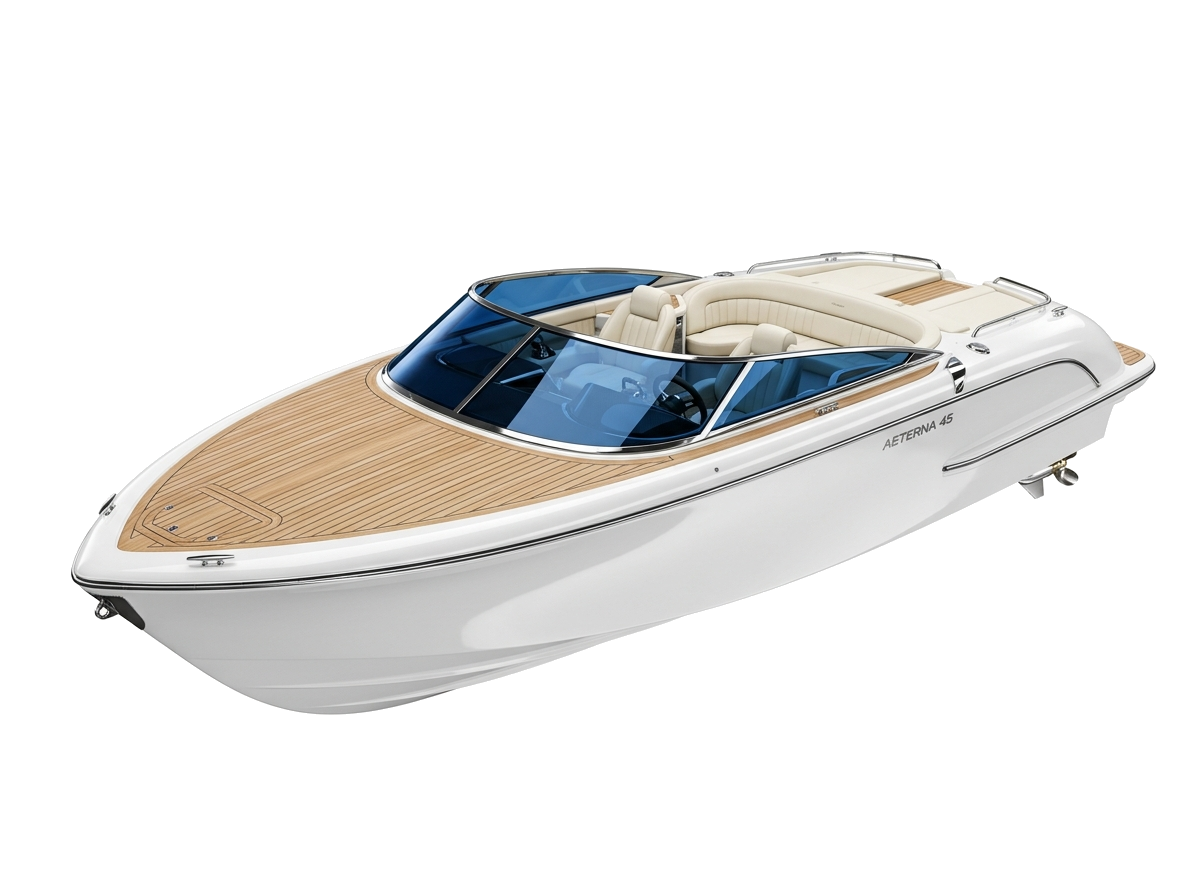
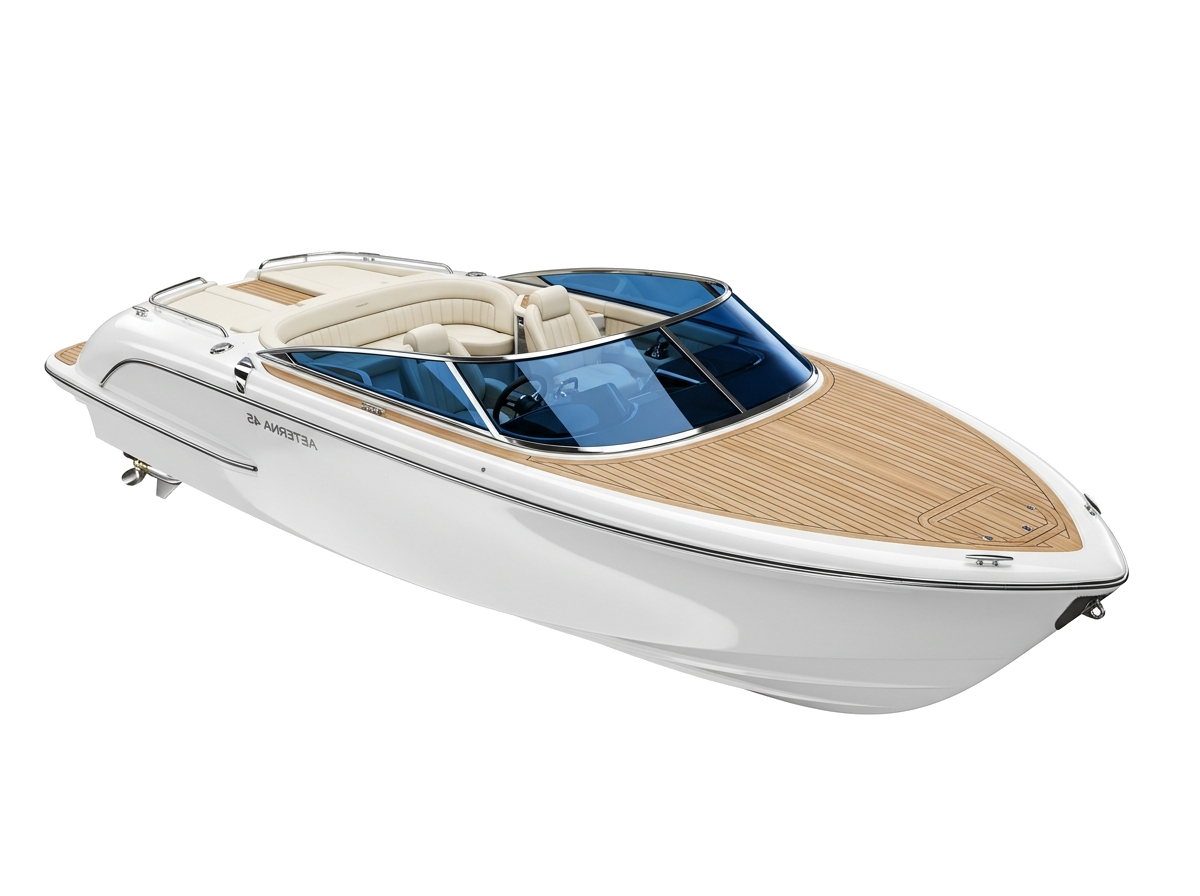
fix: align boat forward orientation, integrate NASA Blue Marble earth map, and eliminate unusual section gaps

diff --git a/main.js b/main.js
@@ -701,10 +701,10 @@ function initGSAPParallaxScroll() {
 
   // 2. SEA REALM: Speedboat sails across turquoise waters, Paraglider soars overhead
   gsap.fromTo('#sea-boat',
-    { x: '-15vw', y: 30 },
+    { x: '-5vw', y: 40 },
     {
       x: '65vw',
-      y: -20,
+      y: -25,
       ease: 'none',
       scrollTrigger: {
         trigger: '#biome-sea',
@@ -891,26 +891,33 @@ function initThreeJSGlobe() {
 
   const radius = 75;
 
-  // Base Earth Sphere
+  // Real NASA High-Resolution Earth Texture
+  const textureLoader = new THREE.TextureLoader();
+  const earthTexture = textureLoader.load('assets/earth-map.jpg', () => {
+    if (globeRenderer && globeScene && globeCamera) {
+      globeRenderer.render(globeScene, globeCamera);
+    }
+  });
+
+  // Base Earth Sphere with real satellite continents & oceans
   const sphereGeo = new THREE.SphereGeometry(radius, 64, 64);
   const sphereMat = new THREE.MeshPhongMaterial({
-    color: 0x0c0828,
-    emissive: 0x050314,
-    specular: 0x38bdf8,
-    shininess: 30,
-    transparent: true,
-    opacity: 0.94
+    map: earthTexture,
+    specular: new THREE.Color(0x0284c7),
+    shininess: 12,
+    emissive: new THREE.Color(0x050d1e),
+    emissiveIntensity: 0.15
   });
   globeSphere = new THREE.Mesh(sphereGeo, sphereMat);
   globeGroup.add(globeSphere);
 
-  // Digital Wireframe Grid
-  const wireGeo = new THREE.SphereGeometry(radius + 0.3, 36, 18);
+  // Digital Wireframe Grid (subtle navigational longitude / latitude)
+  const wireGeo = new THREE.SphereGeometry(radius + 0.35, 36, 18);
   const wireMat = new THREE.MeshBasicMaterial({
-    color: 0x7c3aed,
+    color: 0x38bdf8,
     wireframe: true,
     transparent: true,
-    opacity: 0.18
+    opacity: 0.15
   });
   const wireMesh = new THREE.Mesh(wireGeo, wireMat);
   globeGroup.add(wireMesh);
@@ -939,14 +946,14 @@ function initThreeJSGlobe() {
   const haloMesh = new THREE.Mesh(haloGeo, haloMat);
   globeGroup.add(haloMesh);
 
-  // Lights
-  globeScene.add(new THREE.AmbientLight(0xffffff, 0.85));
-  const dirLight1 = new THREE.DirectionalLight(0x00f2fe, 1.4);
-  dirLight1.position.set(150, 100, 150);
-  globeScene.add(dirLight1);
-  const dirLight2 = new THREE.DirectionalLight(0xff2a85, 1.0);
-  dirLight2.position.set(-150, -100, -150);
-  globeScene.add(dirLight2);
+  // Natural Sunlight & Atmospheric Rim Lights
+  globeScene.add(new THREE.AmbientLight(0xffffff, 1.4));
+  const sunLight = new THREE.DirectionalLight(0xfff8ee, 1.8);
+  sunLight.position.set(180, 120, 180);
+  globeScene.add(sunLight);
+  const rimLight = new THREE.DirectionalLight(0x0284c7, 0.7);
+  rimLight.position.set(-150, 60, -150);
+  globeScene.add(rimLight);
 
   function latLonToVec3(lat, lon, r) {
     const phi = (90 - lat) * (Math.PI / 180);
@@ -1835,4 +1842,27 @@ function initCounterStats() {
   }, { threshold: 0.5 });
 
   document.querySelectorAll('[data-count]').forEach((el) => observer.observe(el));
+}
+
+// Deep link / query scroll helper
+const urlParams = new URLSearchParams(window.location.search);
+const scrollTarget = urlParams.get('scroll');
+if (scrollTarget) {
+  const triggerScroll = () => {
+    const el = document.getElementById(scrollTarget);
+    if (el) {
+      if (window.lenis) {
+        window.lenis.scrollTo(el, { immediate: true });
+      } else {
+        el.scrollIntoView({ behavior: 'auto' });
+      }
+      if (typeof ScrollTrigger !== 'undefined') {
+        ScrollTrigger.refresh();
+      }
+    }
+  };
+  window.addEventListener('DOMContentLoaded', () => {
+    setTimeout(triggerScroll, 200);
+    setTimeout(triggerScroll, 600);
+  });
 }

diff --git a/index.html b/index.html
@@ -382,7 +382,7 @@
   <!-- ╔══════════════════════════════════════════════════════╗
        ║  STICKY FLIGHT TELEMETRY HUD PILL
        ╚══════════════════════════════════════════════════════╝ -->
-  <aside class="sticky top-[5.2rem] z-40 max-w-7xl mx-auto px-4 sm:px-6 pointer-events-none mb-0">
+  <aside class="fixed top-[5.2rem] left-0 right-0 z-40 max-w-7xl mx-auto px-4 sm:px-6 pointer-events-none">
     <div class="pointer-events-auto inline-flex items-center gap-3 px-4 py-2 rounded-full glass-panel border-cyan-400/30">
       <span id="wp-icon" class="text-base">✈</span>
       <span class="text-[10px] text-slate-400 hidden sm:inline font-bold uppercase tracking-wider font-mono">Current Waypoint:</span>
@@ -652,7 +652,7 @@
   <!-- ╔══════════════════════════════════════════════════════╗
        ║  THREE.JS INTERACTIVE 3D EARTH GLOBE & FLIGHT RADAR
        ╚══════════════════════════════════════════════════════╝ -->
-  <section id="radar-section" class="py-28 relative overflow-hidden">
+  <section id="radar-section" class="py-16 relative overflow-hidden">
     <div class="max-w-7xl mx-auto px-5 sm:px-8 relative z-10">
       
       <!-- Section Header -->
@@ -714,7 +714,7 @@
   <!-- ╔══════════════════════════════════════════════════════╗
        ║  CURATED EXPEDITIONS & PACKAGES CATALOG
        ╚══════════════════════════════════════════════════════╝ -->
-  <section id="packages-section" class="py-24 relative overflow-hidden">
+  <section id="packages-section" class="py-16 relative overflow-hidden">
     <div class="max-w-7xl mx-auto px-5 sm:px-8 relative z-10">
       
       <!-- Section Header -->
@@ -758,7 +758,7 @@
   <!-- ╔══════════════════════════════════════════════════════╗
        ║  TRAVELER JOURNAL & TESTIMONIALS (3D Tilt)
        ╚══════════════════════════════════════════════════════╝ -->
-  <section class="py-20 relative">
+  <section class="py-16 relative">
     <div class="max-w-7xl mx-auto px-5 sm:px-8">
       <div class="text-center max-w-2xl mx-auto mb-14">
         <span class="text-xs font-mono font-bold text-amber-300 uppercase tracking-widest block mb-2">Verified Traveler Accolades</span>

diff --git a/styles.css b/styles.css
@@ -673,7 +673,7 @@ body {
   overflow: hidden;
   display: flex;
   align-items: center;
-  padding: 7rem 0;
+  padding: 4.5rem 0;
 }
 
 .realm-bg-layer {
@@ -745,10 +745,10 @@ body {
 /* ── 3D VEHICLE SPRITES ──────────────────────────────────────────────────────── */
 .realm-boat-wrap {
   position: absolute;
-  bottom: 8%;
-  left: -5%;
-  width: clamp(340px, 38vw, 650px);
-  z-index: 5;
+  bottom: 5%;
+  left: 2%;
+  width: clamp(360px, 40vw, 680px);
+  z-index: 25;
   pointer-events: none;
   will-change: transform;
   filter: drop-shadow(0 25px 50px rgba(0, 25, 50, 0.8)) drop-shadow(0 0 40px rgba(0, 242, 254, 0.45));
@@ -756,12 +756,12 @@ body {
 .realm-boat-wrap img { width: 100%; height: auto; }
 .boat-wake-trail {
   position: absolute;
-  bottom: 8px;
-  right: 68%;
-  width: 380px;
-  height: 25px;
-  background: radial-gradient(ellipse at center, rgba(255, 255, 255, 0.9) 0%, rgba(0, 242, 254, 0.7) 40%, transparent 75%);
-  filter: blur(5px);
+  bottom: 15px;
+  left: -110px;
+  width: 320px;
+  height: 40px;
+  background: radial-gradient(ellipse at center, rgba(255, 255, 255, 0.95) 0%, rgba(0, 242, 254, 0.7) 40%, transparent 80%);
+  filter: blur(6px);
   border-radius: 50%;
   animation: wakeSpray 1.5s ease-out infinite;
 }
